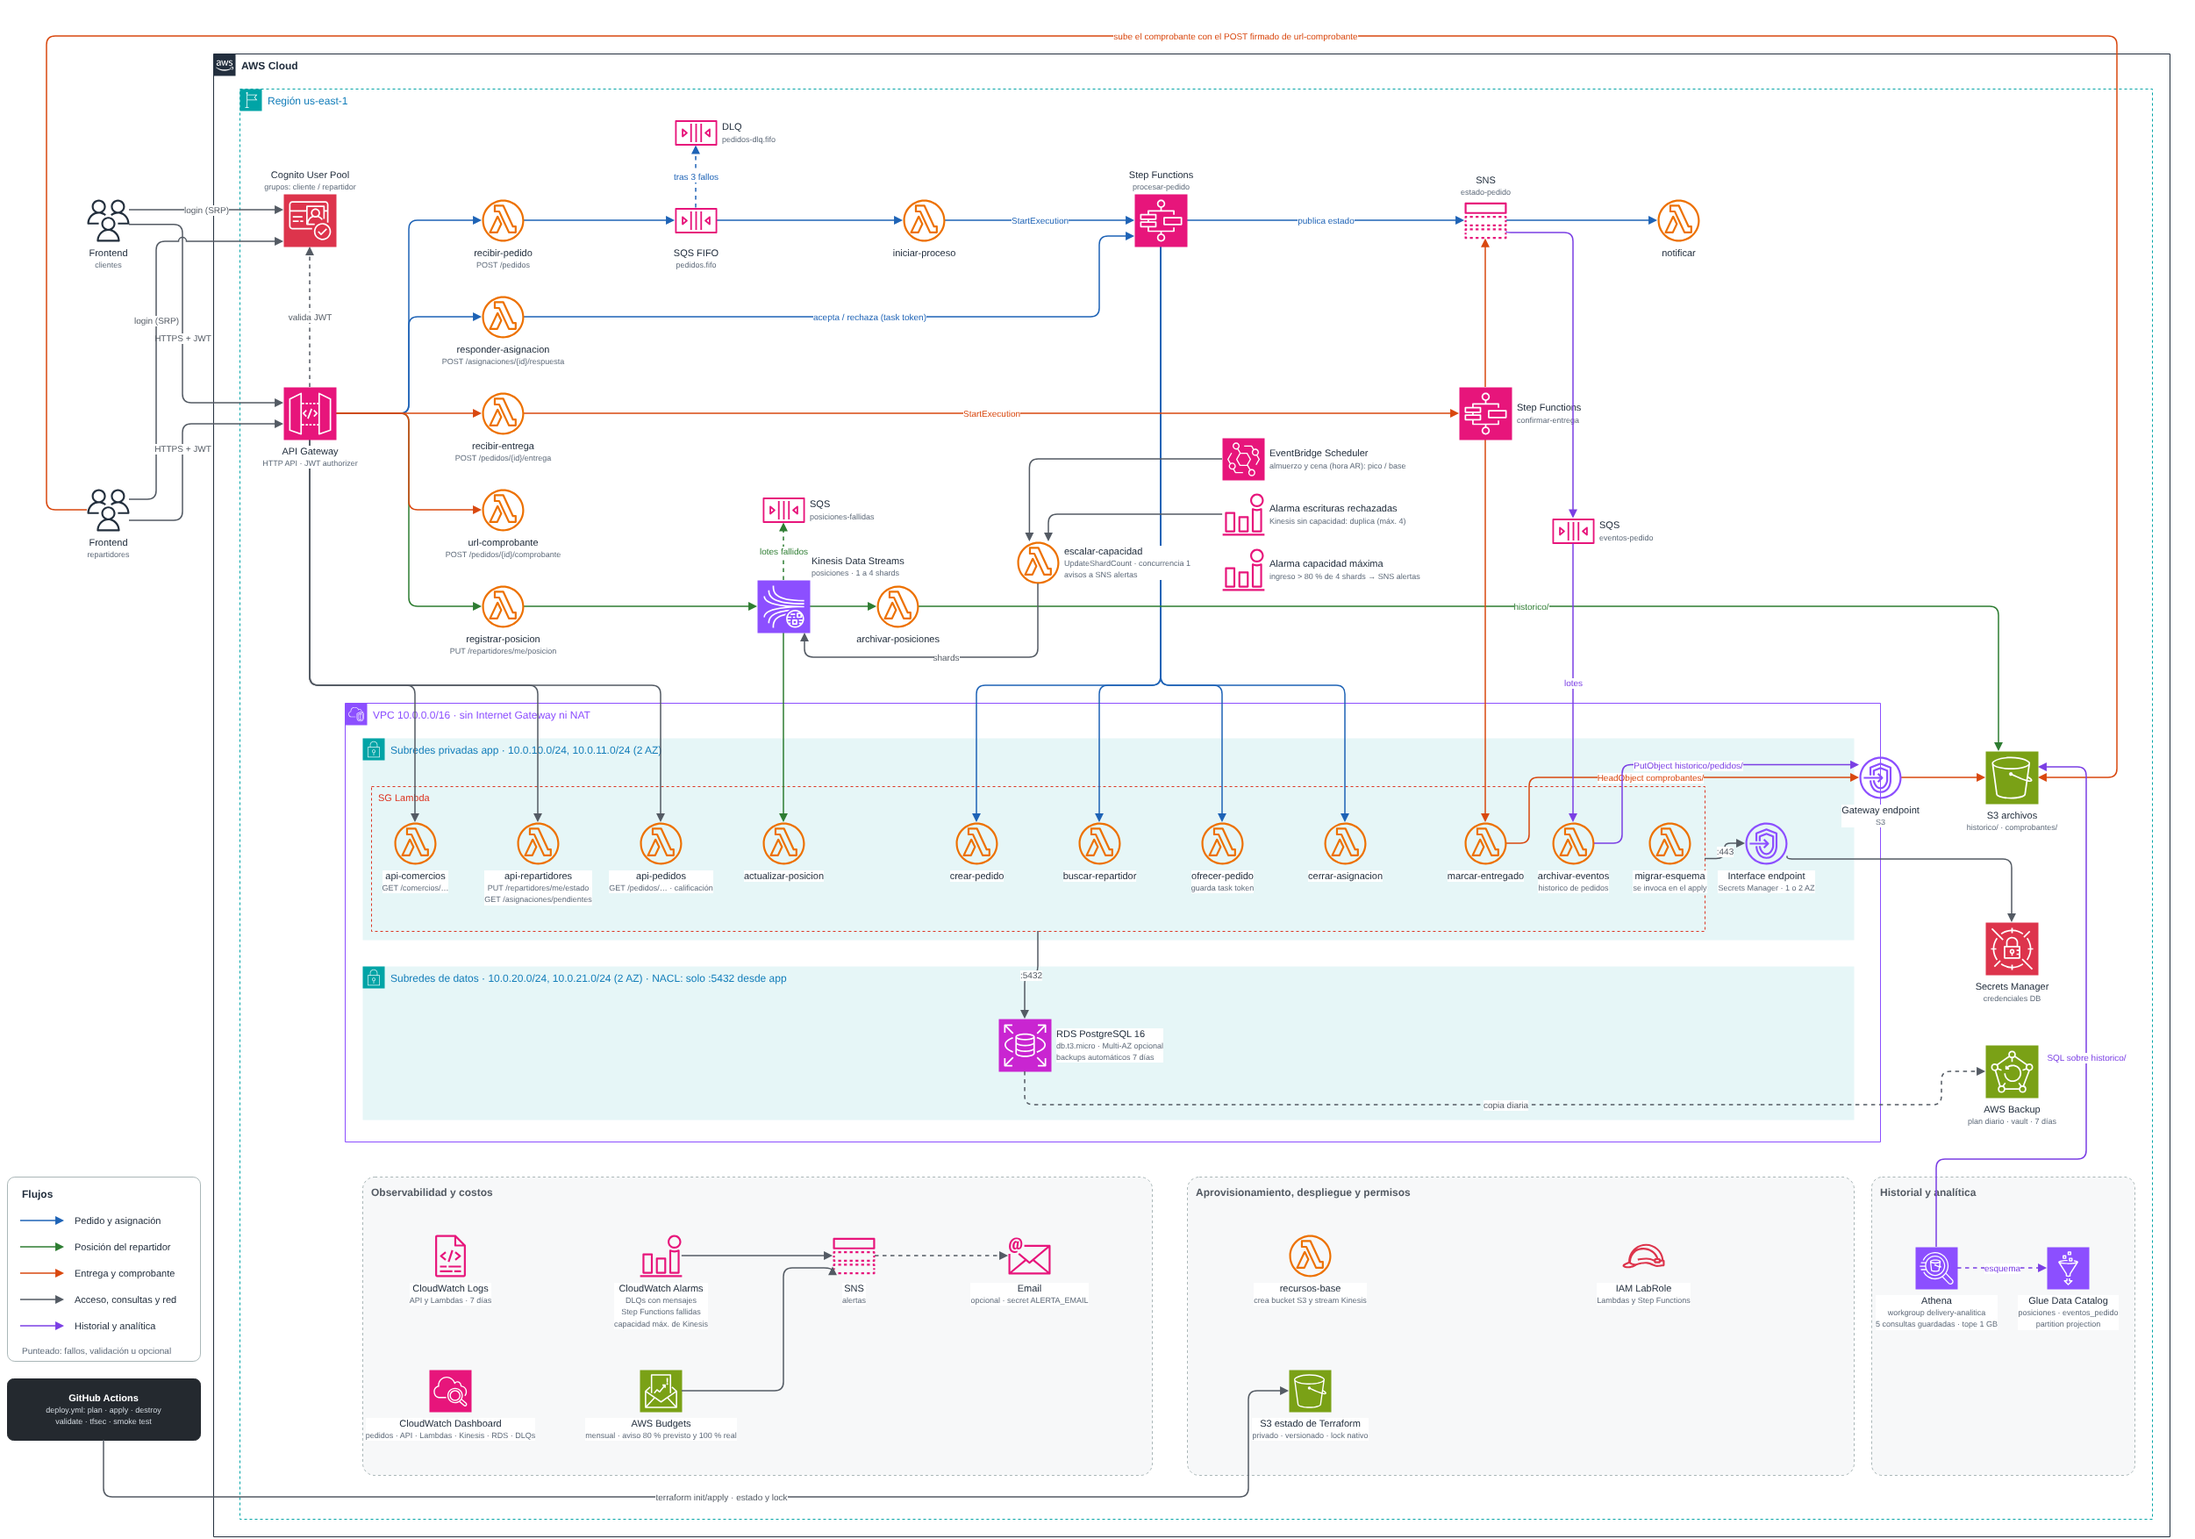
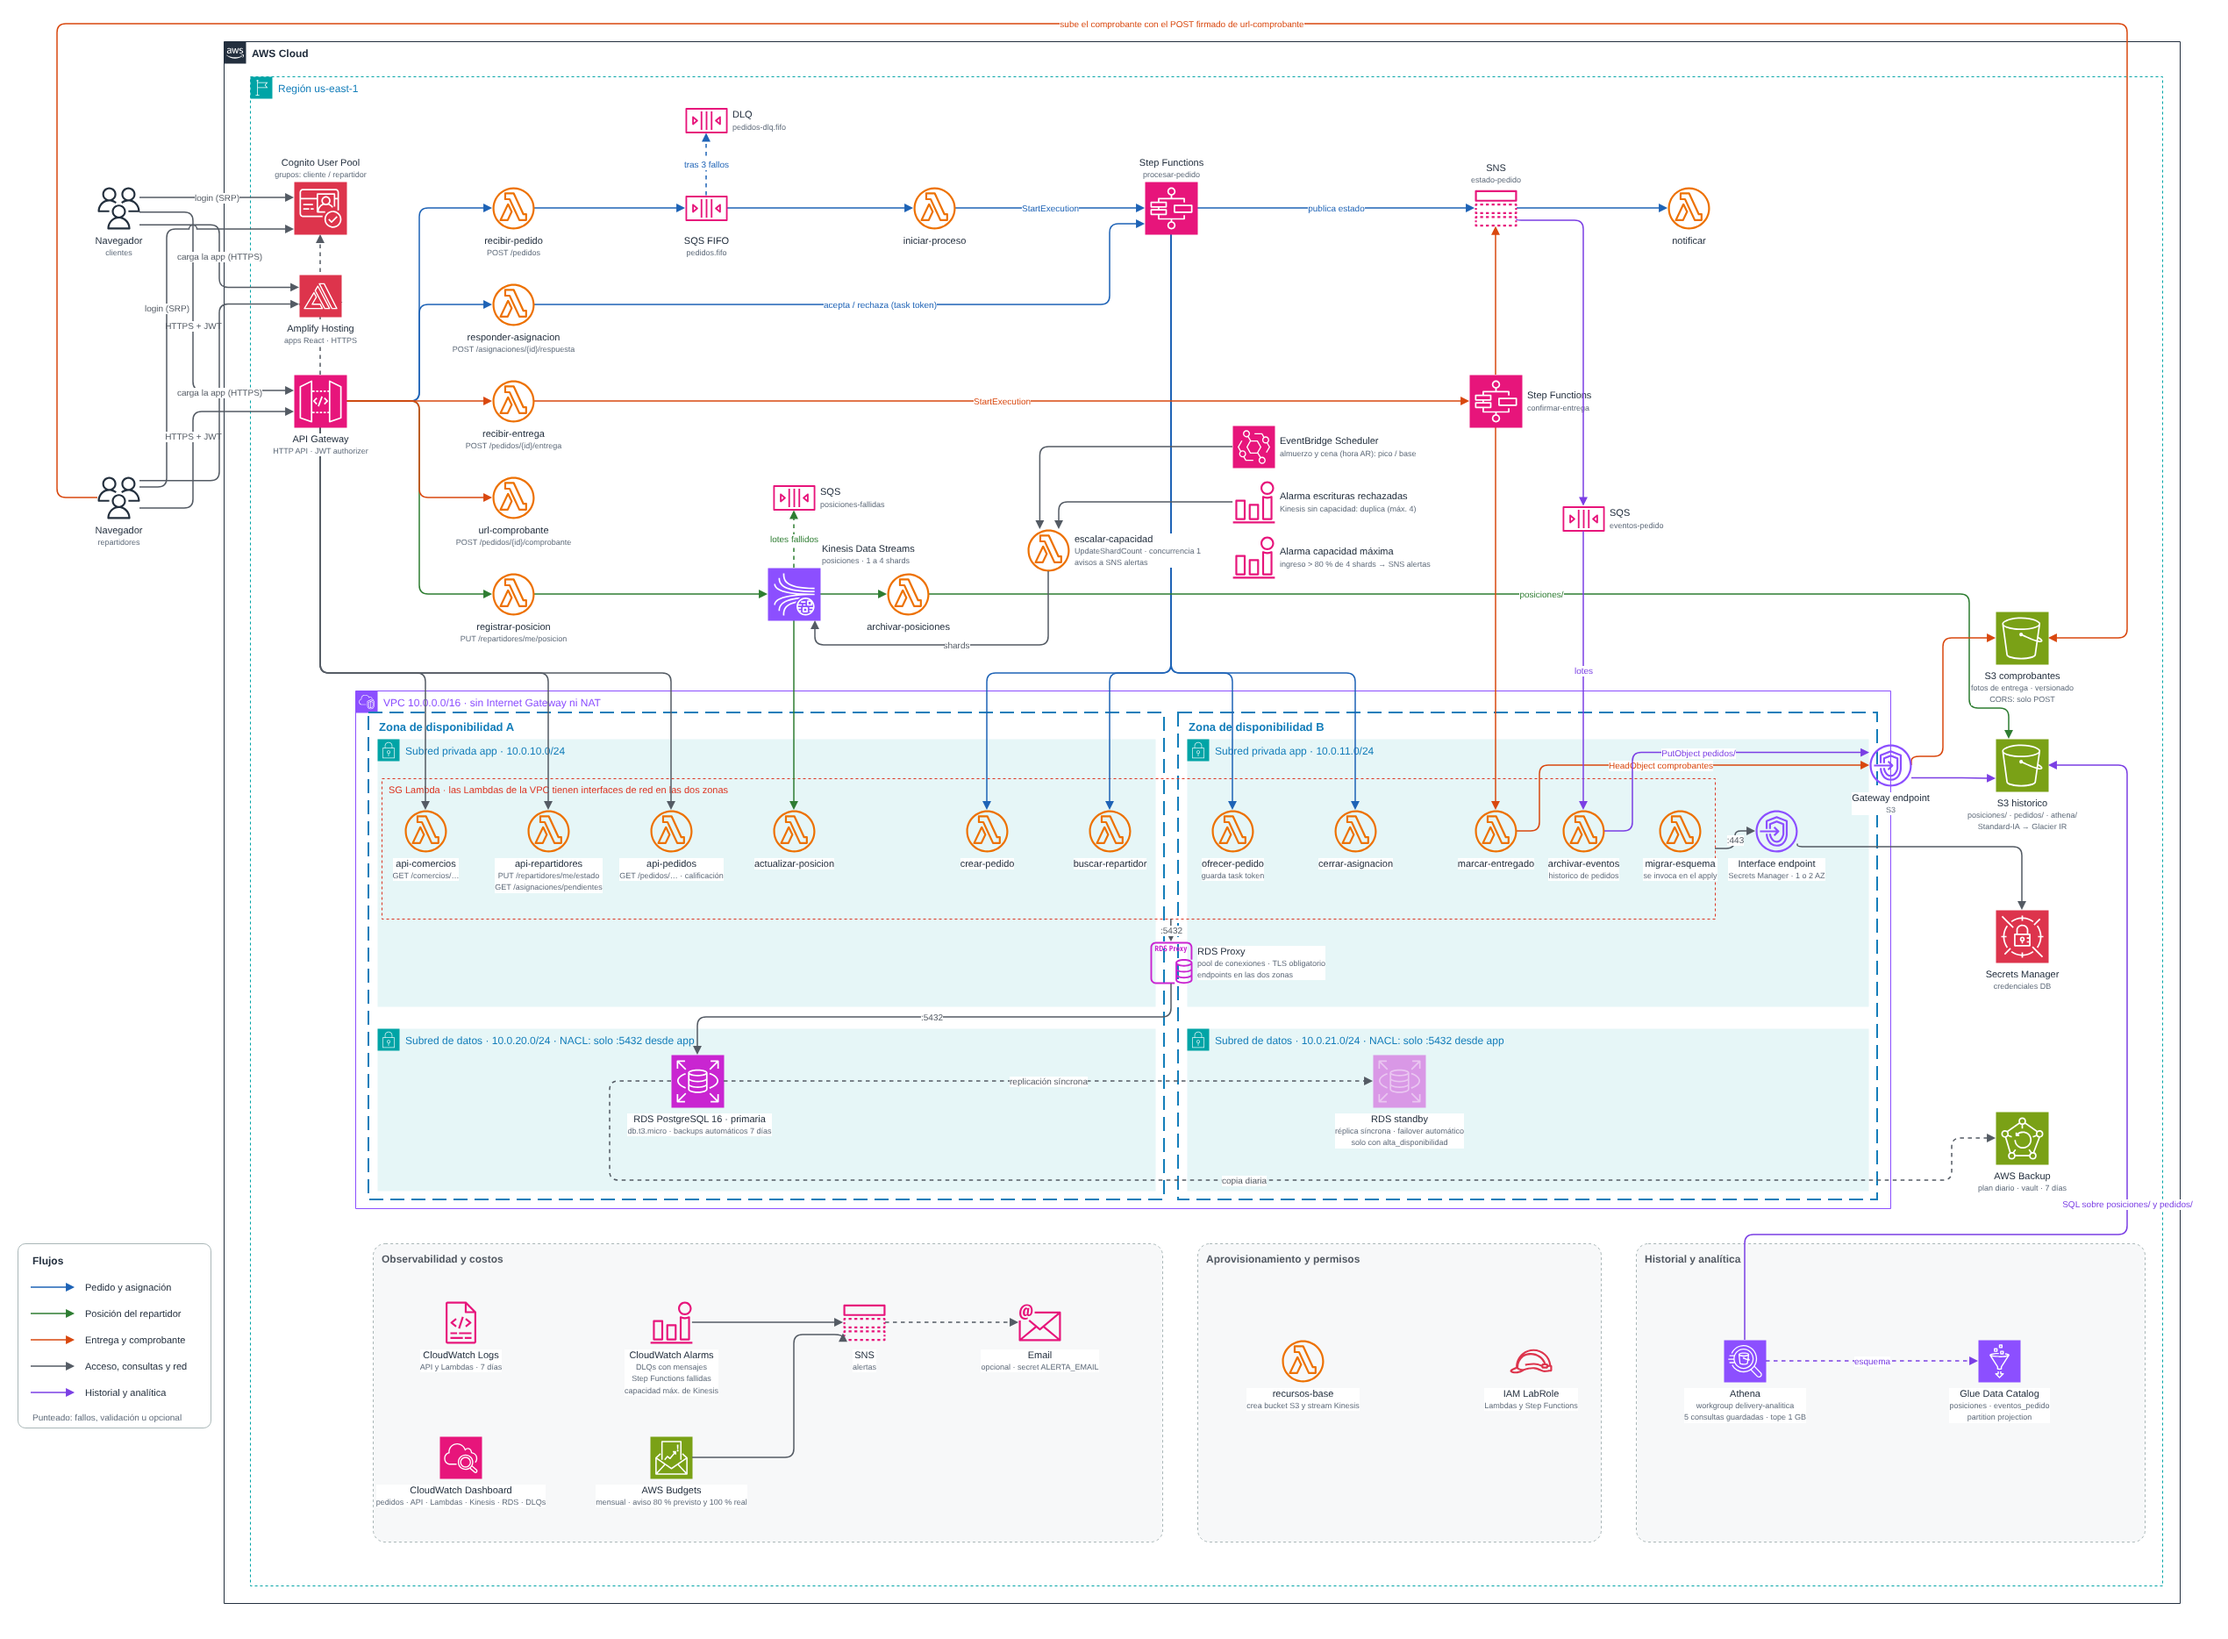
Diagramas: version detallada y simplificada con las dos zonas de disponibilidad
- Detallado: sin el pipeline de GitHub ni el bucket de estado; la VPC se
  divide en las zonas A y B, con una subred app y una de datos en cada una,
  la base primaria en A y el standby (alta_disponibilidad) en B.
- Simplificado (nuevo): las Lambdas que solo pasan mensajes quedan como
  texto en la flecha, las de la VPC se agrupan por funcion, y operacion,
  seguridad y costos van en un panel al costado.
- README: el simplificado arriba y el detallado enlazado.

diff --git a/README.md b/README.md
@@ -2,9 +2,14 @@
 
 **82.08 Cloud Computing**
 
-![Arquitectura en AWS](docs/arquitectura.png)
+![Arquitectura en AWS, versión simplificada](docs/arquitectura-simplificada.png)
 
-Diagrama editable: [`arquitectura-aws.drawio`](arquitectura-aws.drawio) (se abre con [draw.io](https://app.diagrams.net)). Los colores de las flechas siguen la leyenda: pedido y asignación, posición del repartidor, entrega y comprobante, historial y analítica, y acceso y red.
+La arquitectura tiene dos diagramas. Ninguno incluye el pipeline de despliegue, porque no es parte de la arquitectura desplegada.
+
+- **Simplificado** (arriba): la arquitectura de un vistazo. Las Lambdas que solo pasan un mensaje de un servicio a otro aparecen como texto sobre la flecha; las que trabajan contra la base se agrupan por función. La VPC muestra las dos zonas de disponibilidad, y los servicios de operación, seguridad y costos están en un panel al costado. Editable: [`arquitectura-simplificada.drawio`](arquitectura-simplificada.drawio).
+- **Detallado**: cada una de las 21 Lambdas, las rutas de la API, los endpoints de la VPC, las colas de fallidos y las alarmas. Imagen: [`docs/arquitectura.png`](docs/arquitectura.png). Editable: [`arquitectura-aws.drawio`](arquitectura-aws.drawio).
+
+Los dos se abren con [draw.io](https://app.diagrams.net). Los colores de las flechas son los mismos en los dos: pedido y asignación, posición del repartidor, entrega y comprobante, e historial y analítica; el gris es acceso, red y datos. En los dos, la base de datos primaria está en la zona A y el standby en la zona B; el standby existe solo cuando el deploy se lanza con `alta_disponibilidad`.
 
 El módulo raíz de Terraform está en [`terraform/organization/`](terraform/organization/) y el módulo propio en [`terraform/modules/`](terraform/modules/). Hay un archivo por capa de la arquitectura: `network`, `database` (RDS y RDS Proxy), `auth`, `api`, `compute`, `orchestration`, `messaging`, `streaming`, `escalado`, `analitica`, `storage`, `frontend` (Amplify Hosting), `monitoring` e `iam`. Las variables, los outputs, los locals, los providers y las versiones están en archivos separados.
 
